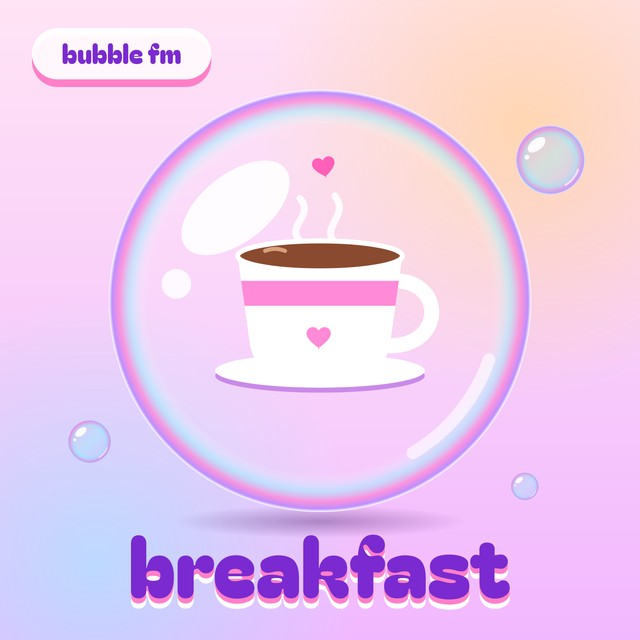
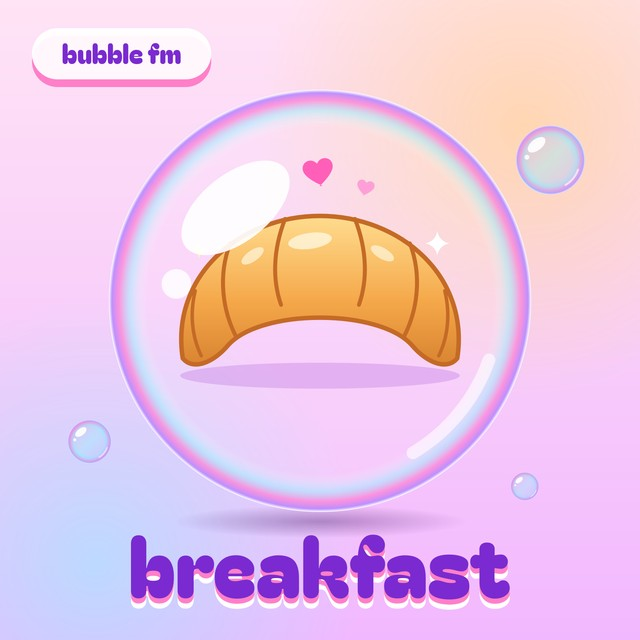
Never post a song twice; croissant on the Breakfast cover
Before each post the picker checks every candidate against all songs
posted so far across the three playlists, by Spotify ID and by artist
and title, so other versions (remasters, edits, feat. credits) and the
same song in another playlist are skipped too. Breakfast cover now
shows a croissant instead of the coffee cup.

Claude-Session: https://claude.ai/code/session_01PQFTmN8M4Paa6RJpFM6amd

Changed region(s): [[0.2812, 0.25, 0.7188, 0.625], [0.5625, 0.2812, 0.5938, 0.3125]]

diff --git a/src/index.js b/src/index.js
@@ -23,7 +23,7 @@ const env = (name, required = true) => {
 };
 
 function loadState() {
-  if (!fs.existsSync(STATE_FILE)) return { day: 0, posted: { breakfast: [], boogie: [], datenight: [] }, history: [] };
+  if (!fs.existsSync(STATE_FILE)) return { day: 0, posted: { breakfast: [], boogie: [], datenight: [] }, postedKeys: [], history: [] };
   return JSON.parse(fs.readFileSync(STATE_FILE, 'utf8'));
 }
 
@@ -43,17 +43,60 @@ function buildCaption(day, tracks) {
   return lines.join('\n');
 }
 
+// The same song can sit in two playlists or exist as several Spotify versions (single,
+// album, remaster), each with its own ID. This key catches those: first artist + title
+// without bracketed or dashed extras like "(Remastered 2011)" or "- Radio Edit".
+function songKey(artist, title) {
+  const clean = (s) =>
+    String(s)
+      .toLowerCase()
+      .normalize('NFKD')
+      .replace(/[̀-ͯ]/g, '')
+      .replace(/\s[-–]\s.*$/, '')
+      .replace(/[([].*?[)\]]/g, '')
+      .replace(/\b(feat|ft|featuring)\b.*$/, '')
+      .replace(/[^a-z0-9]+/g, ' ')
+      .trim();
+  const firstArtist = String(artist).split(/,|&| x | and /i)[0];
+  return `${clean(firstArtist)}|${clean(title)}`;
+}
+
+// Everything that has ever been posted, from any playlist.
+function postedBefore(state) {
+  const ids = new Set(Object.values(state.posted || {}).flat());
+  const keys = new Set(state.postedKeys || []);
+  for (const h of state.history || []) {
+    for (const t of h.tracks || []) {
+      const [artist, ...rest] = String(t).split(' – ');
+      if (rest.length) keys.add(songKey(artist, rest.join(' – ')));
+    }
+  }
+  return { ids, keys };
+}
+
 async function pickTracks(state) {
   if (process.env.SAMPLE === 'true') return sampleTracks();
   const token = await spotify.getToken(env('SPOTIFY_CLIENT_ID'), env('SPOTIFY_CLIENT_SECRET'));
+  const { ids, keys } = postedBefore(state);
   const picked = [];
   for (const p of PLAYLISTS) {
     const all = await spotify.getPlaylistTracks(token, env(ENV_NAME[p]));
-    const done = new Set(state.posted[p] || []);
-    const next = all.find((t) => !done.has(t.id));
+    const skipped = [];
+    const next = all.find((t) => {
+      const key = songKey(t.artist, t.title);
+      if (ids.has(t.id) || keys.has(key)) {
+        skipped.push(`${t.artist} – ${t.title}`);
+        return false;
+      }
+      return true;
+    });
     if (!next) {
-      throw new Error(`The ${LABEL[p]} playlist has no tracks left that weren't posted yet. Add new songs to it.`);
+      throw new Error(`The ${LABEL[p]} playlist has no songs left that were never posted before. Add new songs to it.`);
     }
+    if (skipped.length) console.log(`${LABEL[p]}: skipped ${skipped.length} song(s) already posted before.`);
+    // Also stops the same song showing up twice in one post.
+    ids.add(next.id);
+    keys.add(songKey(next.artist, next.title));
     picked.push({ ...next, playlist: p, coverDataUri: await spotify.downloadAsDataUri(next.coverUrl) });
   }
   return picked;
@@ -121,7 +164,9 @@ async function publish() {
   const state = loadState();
   state.day = meta.day;
   for (const t of meta.tracks) {
-    if (t.id && !t.id.startsWith('sample-')) (state.posted[t.playlist] ||= []).push(t.id);
+    if (!t.id || t.id.startsWith('sample-')) continue;
+    (state.posted[t.playlist] ||= []).push(t.id);
+    (state.postedKeys ||= []).push(songKey(t.artist, t.title));
   }
   state.history.push({ date, day: meta.day, instagramId: postId, tracks: meta.tracks.map((t) => `${t.artist} – ${t.title}`) });
   fs.writeFileSync(STATE_FILE, JSON.stringify(state, null, 2) + '\n');

diff --git a/src/covers.js b/src/covers.js
@@ -8,21 +8,30 @@ const { DEFS, HEART, SPARK, bubble, stickerText, icon, glow, FONTS } = require('
 
 const S = 1000;
 
-const coffeeCup = `
-  <g transform="translate(500 500)">
-    <path d="M -40 -120 C -70 -150 -10 -170 -40 -205" stroke="#ffffff" stroke-width="14" fill="none" stroke-linecap="round" opacity="0.85"/>
-    <path d="M 30 -115 C 0 -150 60 -170 30 -210" stroke="#ffffff" stroke-width="14" fill="none" stroke-linecap="round" opacity="0.85"/>
-    ${icon(HEART, -20, -300, 60, '#ff5fb8', -10)}
-    <ellipse cx="0" cy="150" rx="210" ry="34" fill="#c98ae8"/>
-    <ellipse cx="0" cy="140" rx="210" ry="34" fill="#ffffff"/>
-    <path d="M 150 -40 C 250 -40 250 90 140 90" stroke="#ffffff" stroke-width="30" fill="none" stroke-linecap="round"/>
-    <path d="M -165 -90 L 165 -90 L 140 90 Q 130 140 80 140 L -80 140 Q -130 140 -140 90 Z" fill="#ffffff"/>
-    <path d="M -158 -40 L 158 -40 L 151 10 L -151 10 Z" fill="#ff8ad8"/>
-    <ellipse cx="0" cy="-90" rx="165" ry="30" fill="#8a4a2f"/>
-    <ellipse cx="0" cy="-90" rx="165" ry="30" fill="none" stroke="#ffffff" stroke-width="10"/>
-    <path d="M -110 -100 q 20 -8 40 0" stroke="#d9a07c" stroke-width="8" fill="none" stroke-linecap="round"/>
-    ${icon(HEART, -32, 40, 64, '#ff8ad8')}
-    <ellipse cx="-110" cy="-20" rx="16" ry="50" fill="#ffffff" opacity="0.0"/>
+// A croissant: one fat crescent with curved layer lines and glossy highlights.
+const croissant = `
+  <defs>
+    <linearGradient id="crust" x1="0" y1="0" x2="0" y2="1">
+      <stop offset="0" stop-color="#ffdc8f"/><stop offset="0.55" stop-color="#f5a84a"/><stop offset="1" stop-color="#d6802f"/>
+    </linearGradient>
+  </defs>
+  <g transform="translate(500 520)">
+    <ellipse cx="0" cy="130" rx="280" ry="26" fill="#c98ae8" opacity="0.45"/>
+    <path d="M -275 95 C -300 -70 -160 -190 0 -190 C 160 -190 300 -70 275 95 C 255 120 215 105 185 70 C 120 -5 -120 -5 -185 70 C -215 105 -255 120 -275 95 Z"
+      fill="url(#crust)" stroke="#c46a26" stroke-width="9" stroke-linejoin="round"/>
+    <path d="M -70 -184 C -95 -120 -95 -60 -78 -12" stroke="#c46a26" stroke-width="8" fill="none" stroke-linecap="round"/>
+    <path d="M 70 -184 C 95 -120 95 -60 78 -12" stroke="#c46a26" stroke-width="8" fill="none" stroke-linecap="round"/>
+    <path d="M -180 -135 C -205 -70 -195 0 -168 52" stroke="#c46a26" stroke-width="8" fill="none" stroke-linecap="round"/>
+    <path d="M 180 -135 C 205 -70 195 0 168 52" stroke="#c46a26" stroke-width="8" fill="none" stroke-linecap="round"/>
+    <path d="M -250 -40 C -262 10 -255 55 -238 90" stroke="#c46a26" stroke-width="7" fill="none" stroke-linecap="round"/>
+    <path d="M 250 -40 C 262 10 255 55 238 90" stroke="#c46a26" stroke-width="7" fill="none" stroke-linecap="round"/>
+    <ellipse cx="-20" cy="-140" rx="44" ry="16" fill="#fff6dd" opacity="0.8" transform="rotate(-8 -20 -140)"/>
+    <ellipse cx="-135" cy="-110" rx="26" ry="11" fill="#fff6dd" opacity="0.7" transform="rotate(-35 -135 -110)"/>
+    <ellipse cx="125" cy="-115" rx="26" ry="11" fill="#fff6dd" opacity="0.7" transform="rotate(30 125 -115)"/>
+    ${icon(HEART, -40, -320, 80, '#ff5fb8', -10)}
+    ${icon(HEART, 70, -270, 46, '#ff9fd8', 12)}
+    ${icon(SPARK, 210, -160, 50, '#ffffff')}
+    ${icon(SPARK, -260, -140, 36, '#fff6b0')}
   </g>`;
 
 const discoBall = (() => {
@@ -73,7 +82,7 @@ const COVERS = {
   breakfast: {
     bg: ['#ffe4f5', '#f2b8ff'],
     glows: [['#ffd6aa', 820, 200, 420, 0.9], ['#8ff0ff', 150, 880, 420, 0.55]],
-    motif: coffeeCup,
+    motif: croissant,
     name: 'breakfast',
     top: '#7a2ad0',
     layers: ['#ffffff', '#ff7fc8'],

diff --git a/README.md b/README.md
@@ -8,7 +8,14 @@ It runs on GitHub Actions, so nothing needs to stay switched on at home.
 
 ## How it picks songs
 
-For each playlist it takes the first song (in playlist order) that hasn't been posted yet. Posted songs are remembered in `state.json`. Add new songs anywhere in the playlist and they'll come up in turn. If a playlist runs out of new songs, that day's run stops and says which playlist needs more.
+For each playlist it takes the first song (in playlist order) that has never been posted before, in any of the three playlists. Before every post it checks the song against everything posted so far, both by its Spotify ID and by artist and title, so these count as the same song and are skipped:
+- the same track sitting in two playlists
+- another version of it, like a remaster, radio edit, remix or the album version of a single
+- the same song with a "feat." credit added
+
+It also never puts the same song in one post twice. Skipped songs are listed in the run log. Posted songs are remembered in `state.json`.
+
+Add new songs anywhere in a playlist and they'll come up in turn. If a playlist runs out of songs that were never posted, that day's run stops and says which playlist needs more.
 
 ## Three modes
 
